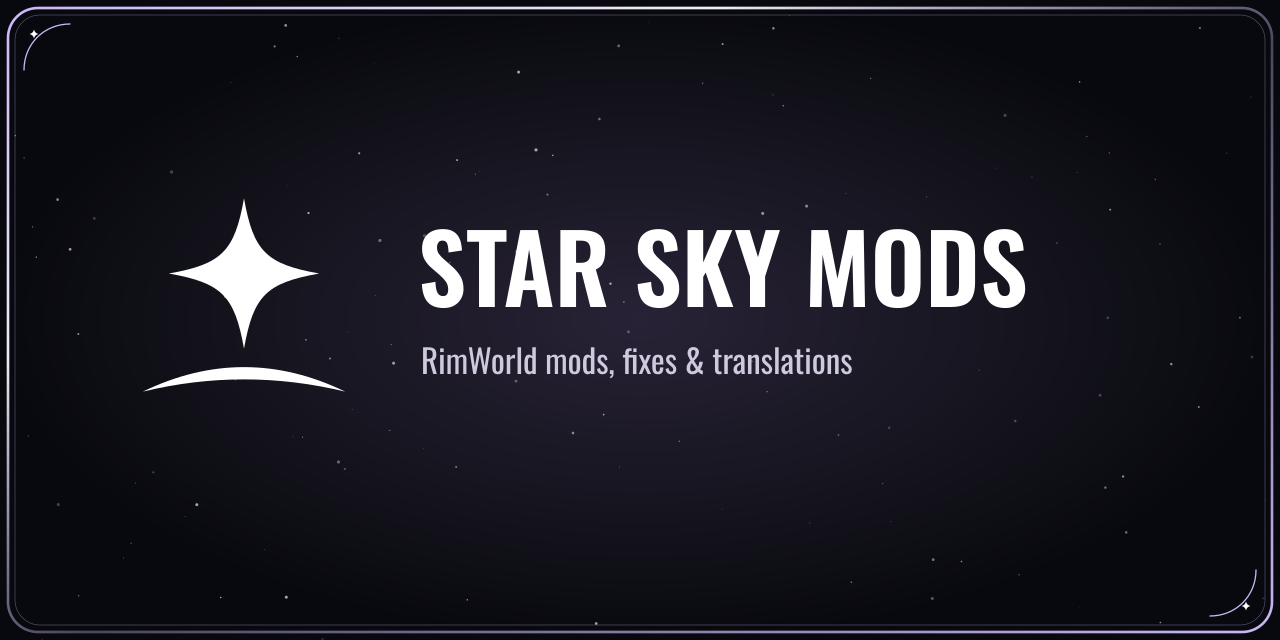
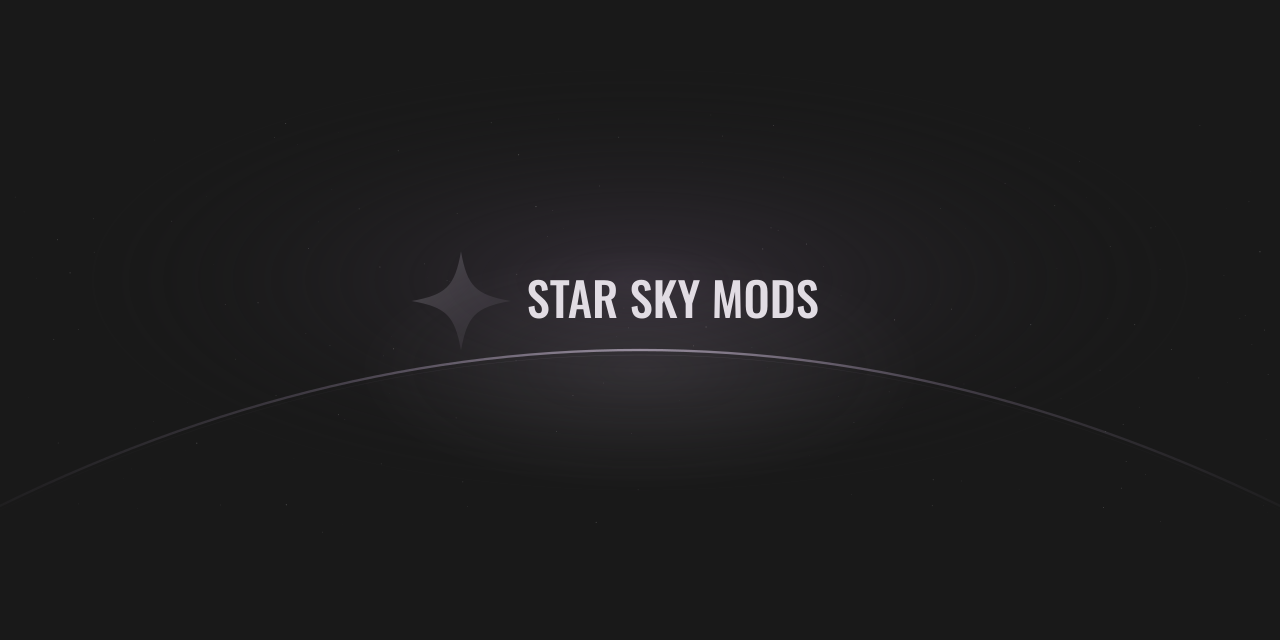
Refine shared artwork and move support links to Star Sky Assets

diff --git a/README.md b/README.md
@@ -1,8 +1,8 @@
 ![Star Sky Mods](assets/star-sky-banner.png)
 
-# Star Sky Mods · Artwork
+# Star Sky Assets
 
-Public artwork for **Star Sky Mods**: mod covers, reusable section headings and support banners.
+Shared Star Sky artwork: brand graphics, mod covers, reusable section headings and support banners.
 
 [Browse the RimWorld mods](https://github.com/chupakobra6/star-sky-rimworld-mods) or find them on [Steam Workshop](https://steamcommunity.com/id/chupakobra6/myworkshopfiles/?appid=294100).
 
